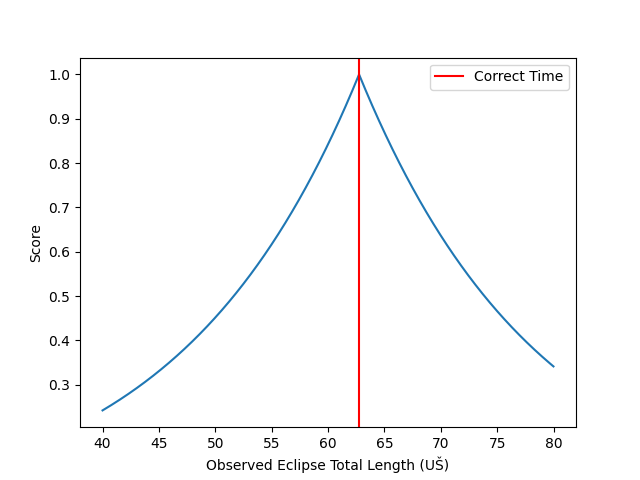
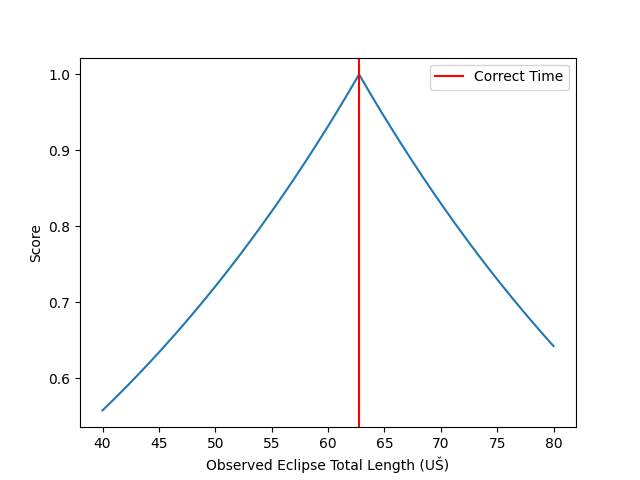
tweaks

diff --git a/src/query/bm32234.py b/src/query/bm32234.py
@@ -112,10 +112,12 @@ class BM32234(AbstractTablet):
         # 8'  blew. 5°
         # 9'  in front of η Tauri it was eclipsed.
         # 10' At 14° before [sunrise].
+        # Comment: V' 5': the missing word at the end of the line may have meant "was missing"
+        # Visibility description kind of unclear
         range = SearchRange.x_plus(month, 11)
         eclipse_time = FirstContactTime(14, FirstContactRelative.BEFORE_SUNRISE)
         location = EclipsePosition(ALCYONE, 0, 15, EclipticPosition.AHEAD)
-        res1 = LunarEclipseQuery(self.db, eclipse_time, ExpectedEclipseType.PARTIAL, None, location, range)
+        res1 = LunarEclipseQuery(self.db, eclipse_time, ExpectedEclipseType.UNKNOWN, None, location, range)
         return [res1]
 
     def year_68(self, nisan_1: float) -> List[PotentialMonthResult]:

diff --git a/src/query/lunar_eclipse_query.py b/src/query/lunar_eclipse_query.py
@@ -61,7 +61,7 @@ class EclipsePosition:
 
 
 class LunarEclipseQuery(AbstractQuery):
-    REGULAR_TIME_TOLERANCE = 50
+    REGULAR_TIME_TOLERANCE = 5
     HIGH_TIME_TOLERANCE = 1.5
 
     def __init__(self, db: Database, first_contact: Union[None, FirstContactTime],
